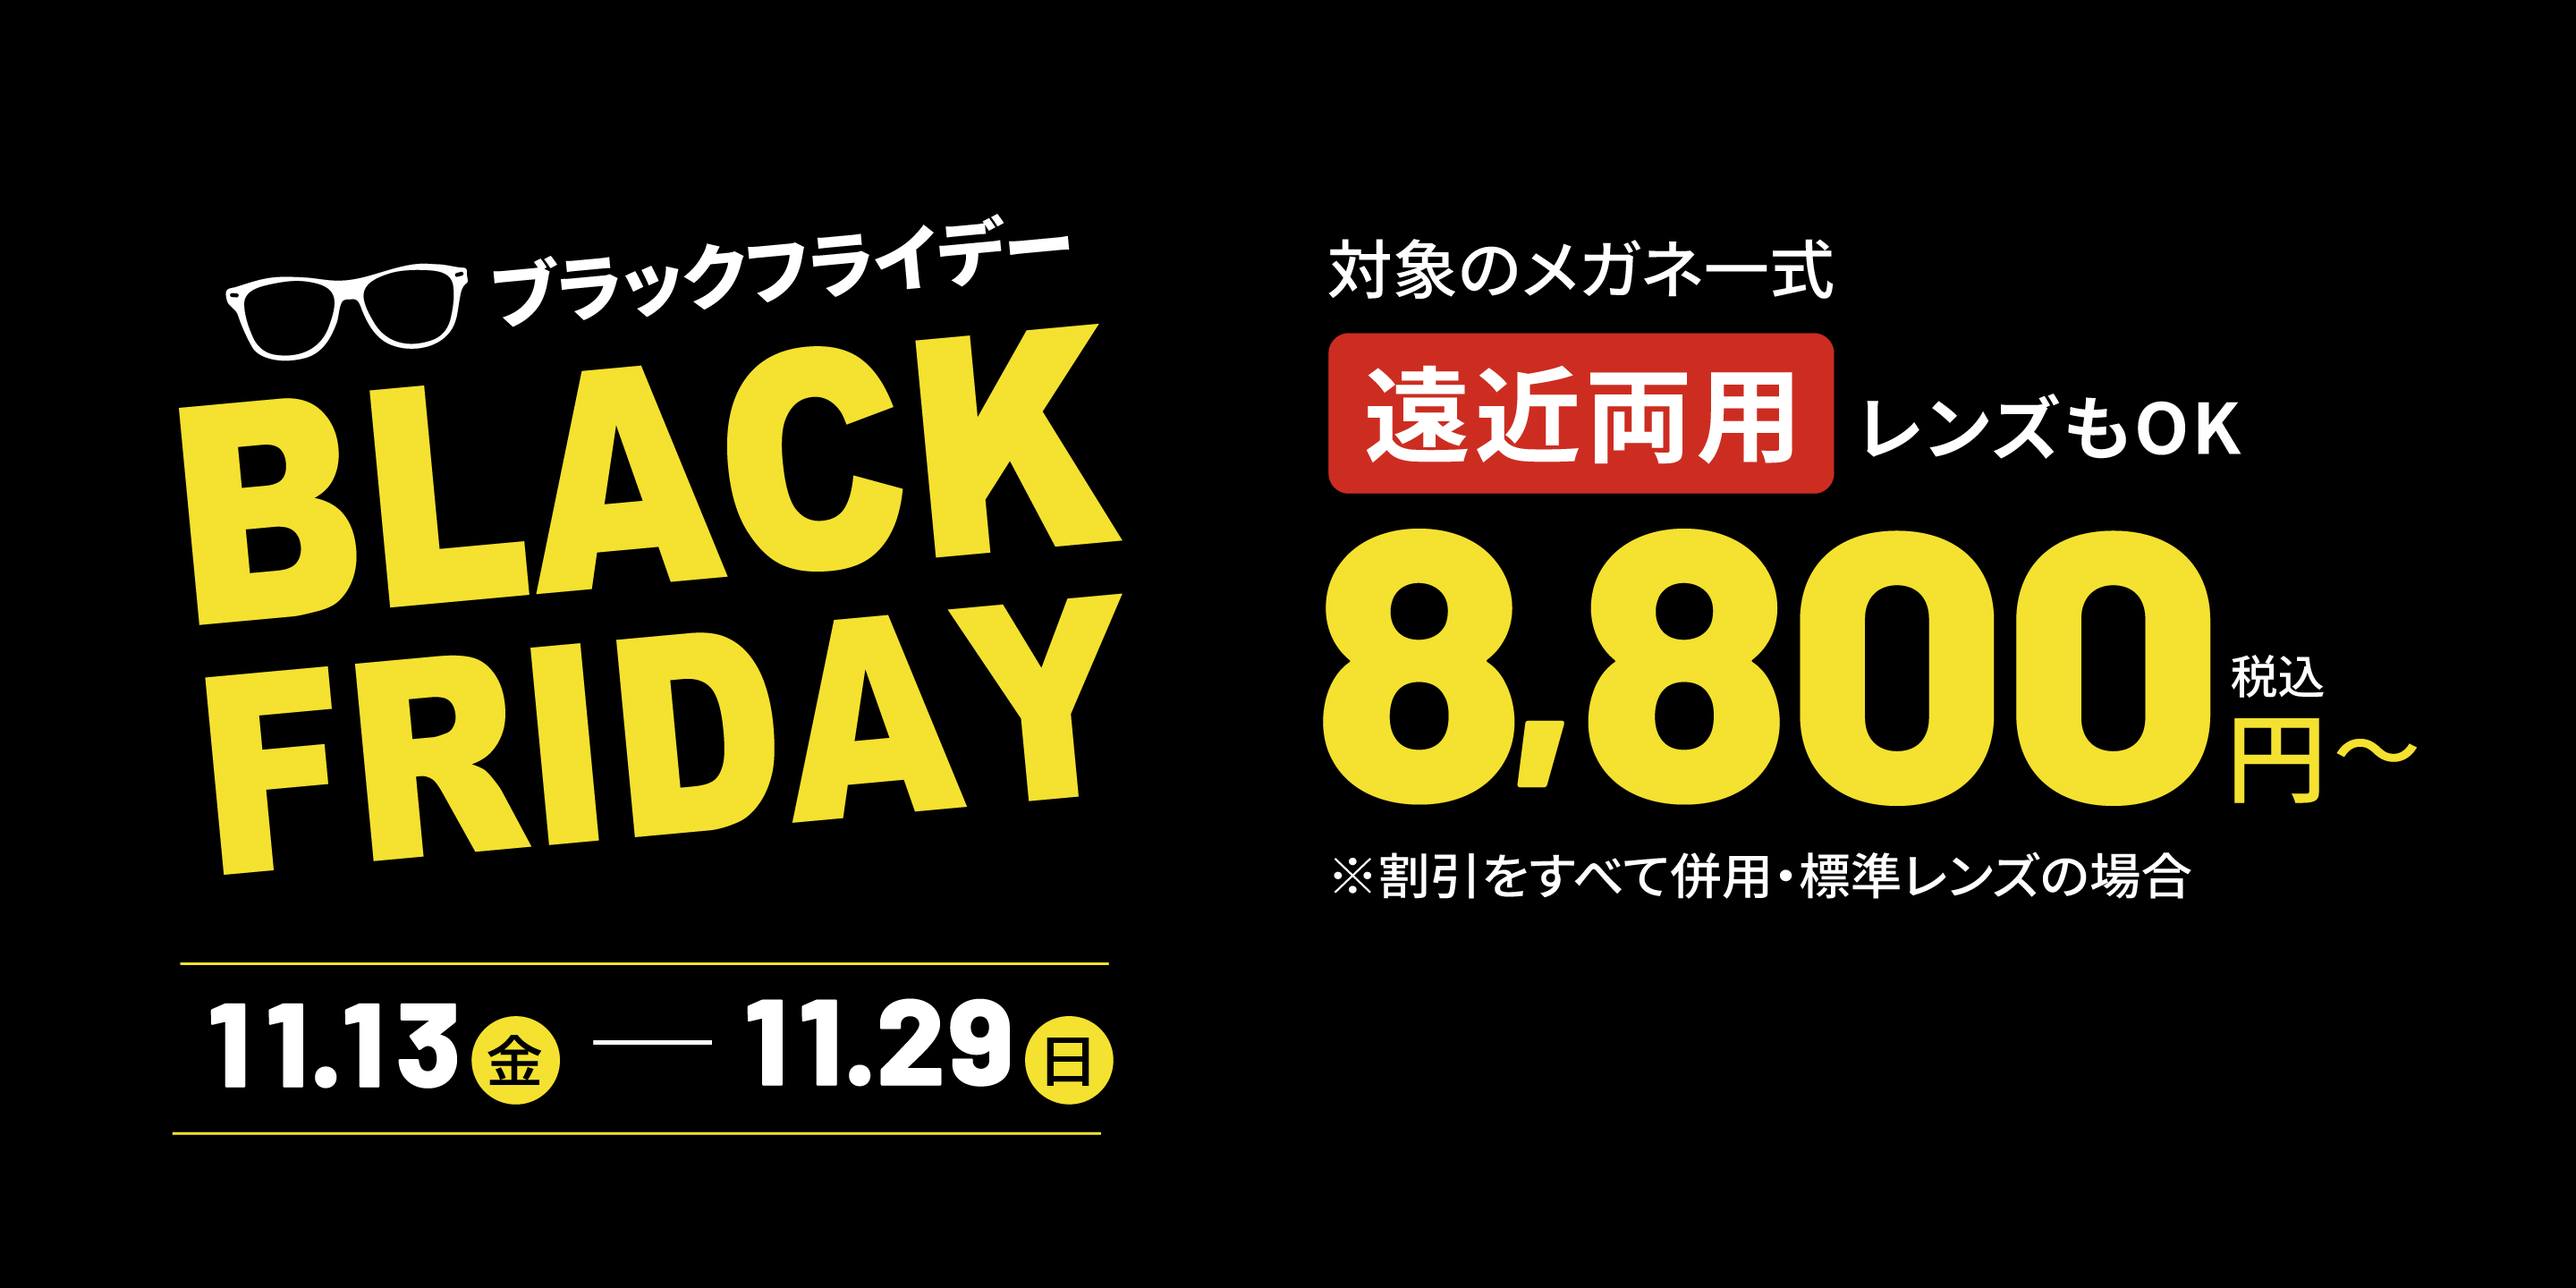
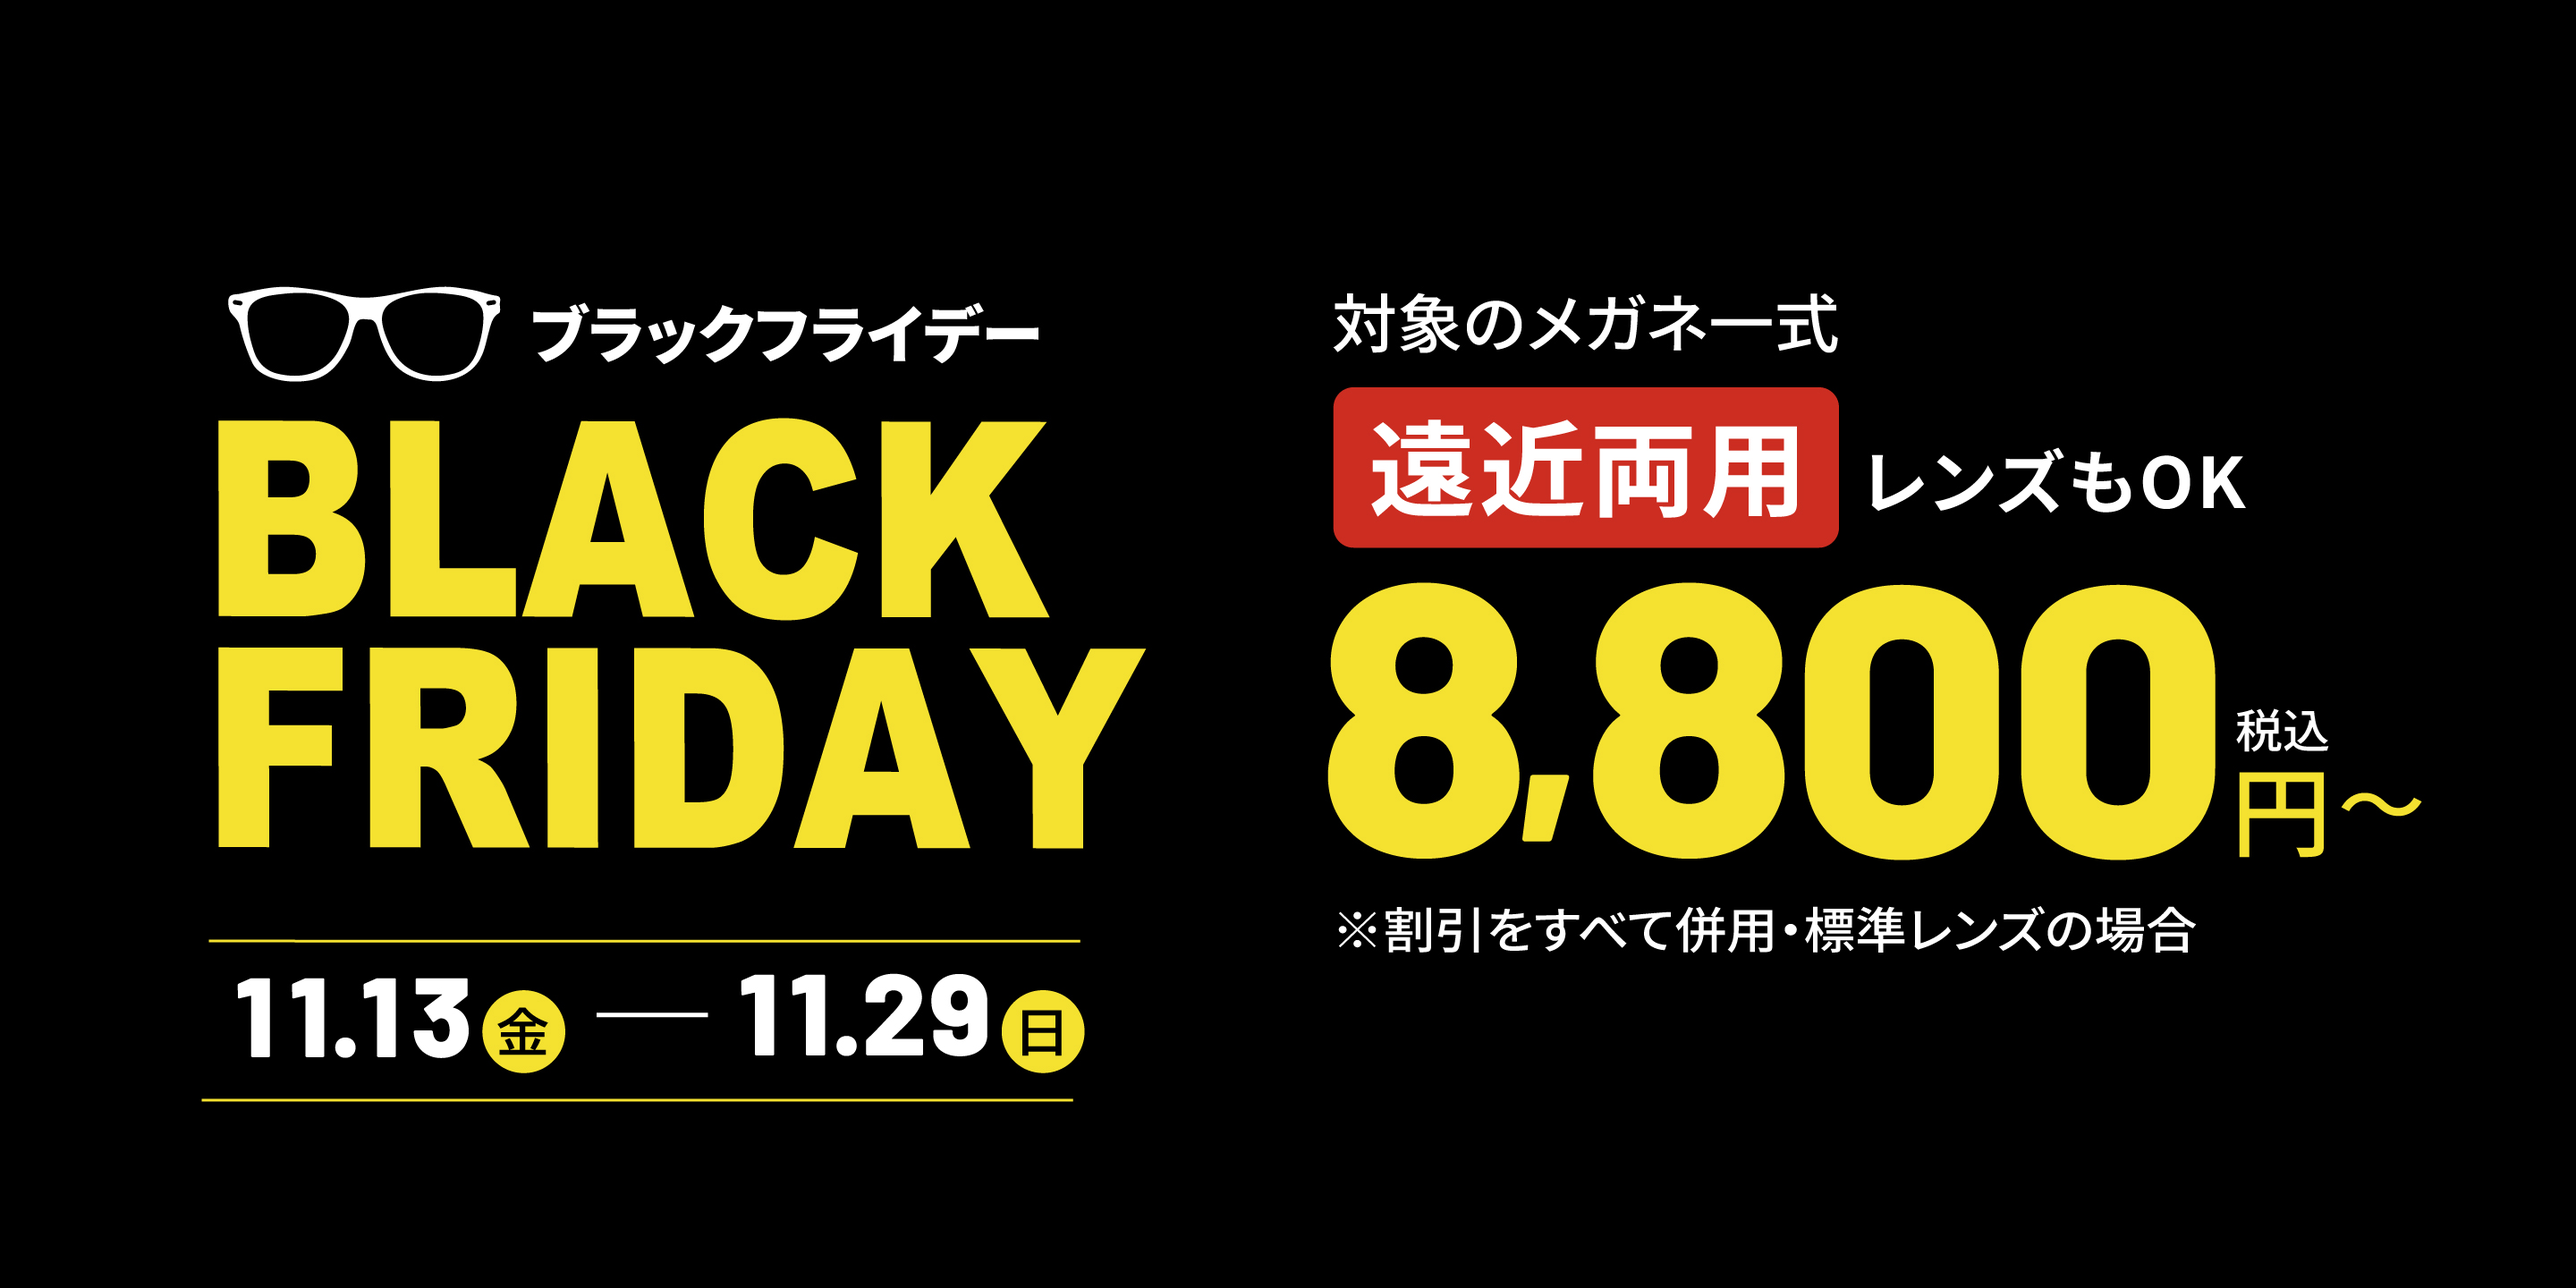
11/4 保証の強調を赤文字・少し大きく

diff --git a/index.html b/index.html
@@ -2502,6 +2502,9 @@
   /* 11/4 キャンペーン概要の見出しラベル：黒の塗りつぶし→細い黒の枠（Iさん「わかりにくい」） */
   .ol-row dt { background: #fff !important; color: var(--tx) !important; border: 1.5px solid var(--tx); font-weight: 700 !important; }
 
+  /* 11/4 保証の強調（何度でも無料・半額で など）：赤い下線→赤い文字・少し大きく（Iさん） */
+  .hc-u, .hs-acc .hc-u { text-decoration: none !important; color: #e8352a !important; font-weight: 900 !important; font-size: 1.15em; }
+
   /* ===== 11/3 選ばれる理由：PCは「文字｜絵」の2列を左右交互に（真ん中寄せの1列は中途半端・Iさん）。番号は丸→大きい01・02・03 ===== */
   @media (min-width: 1024px) {
     .reasons { max-width: 1080px !important; }
